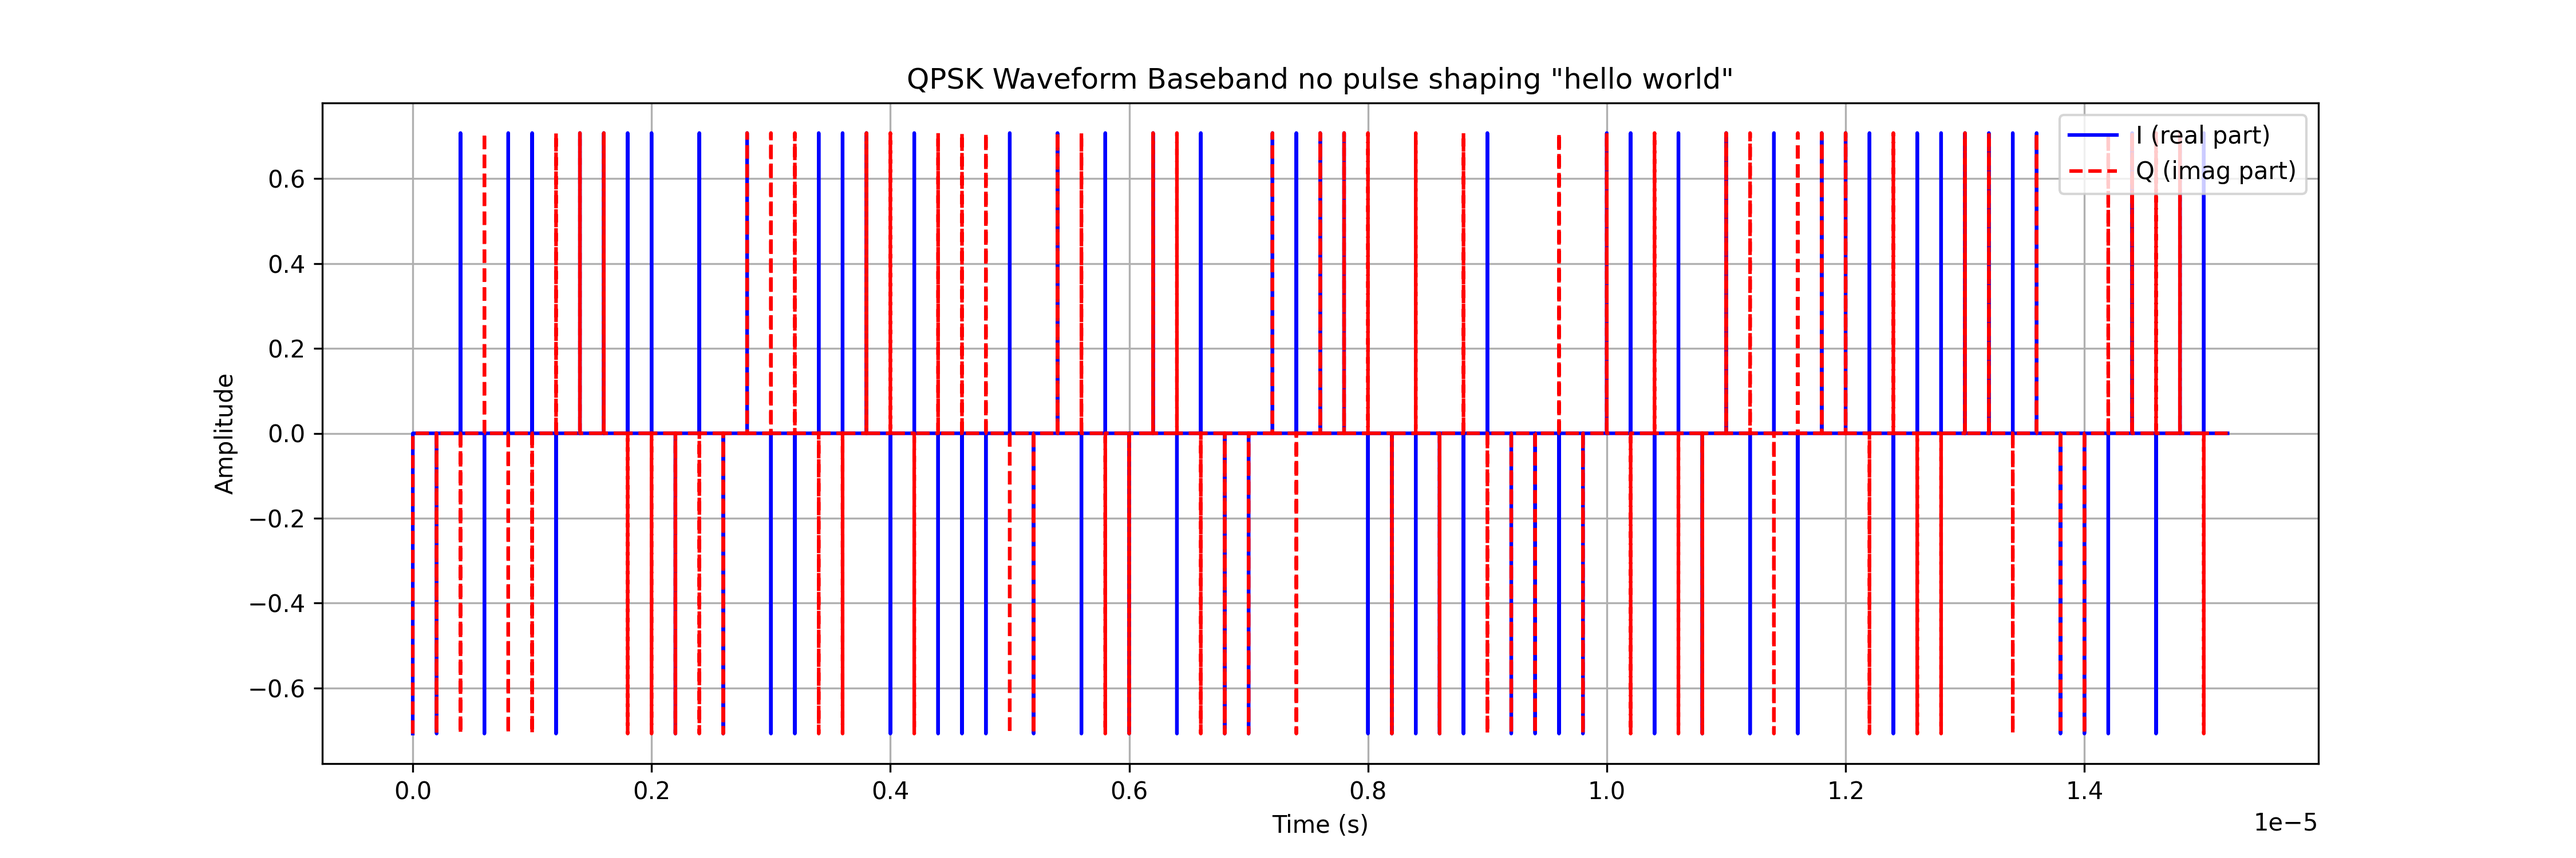
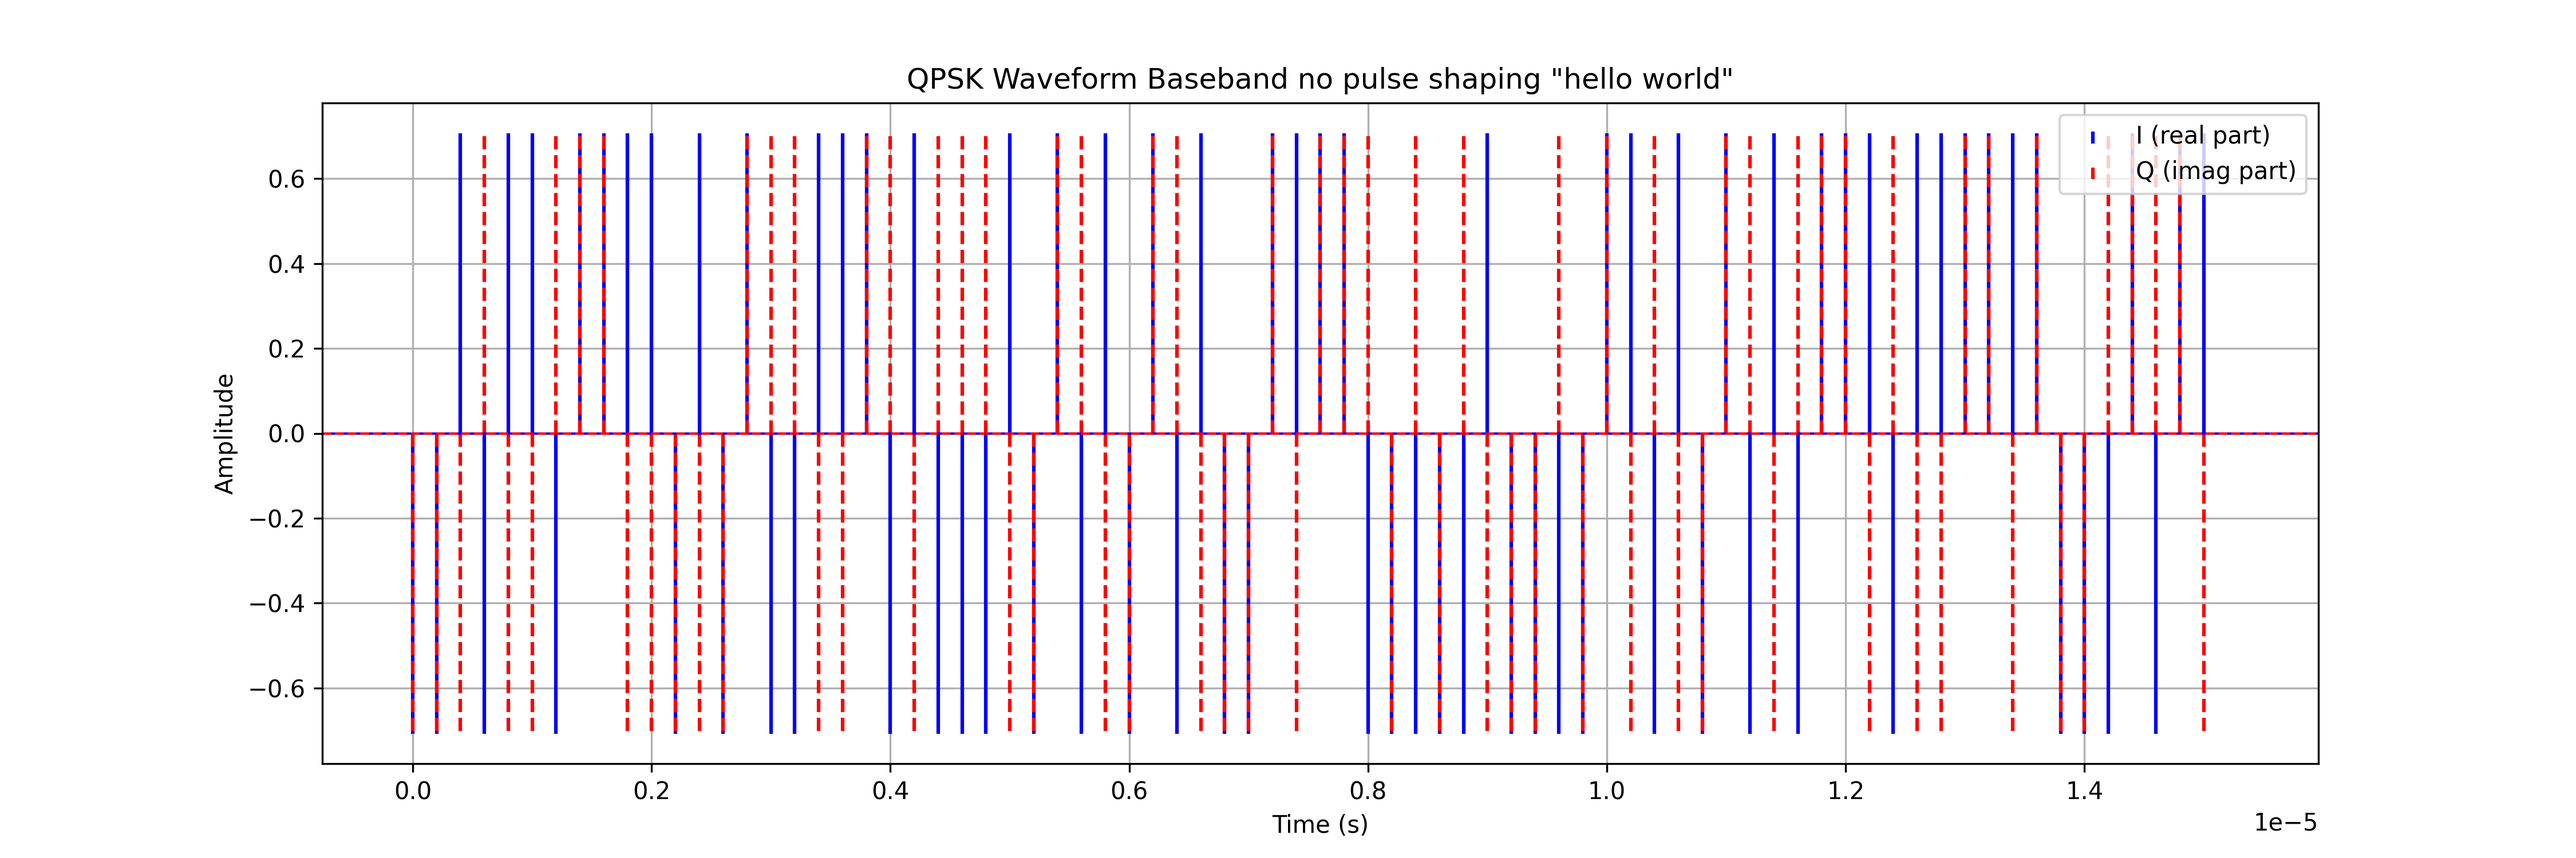
quick push

Changed region(s): [[0.1244, 0.1533, 0.9022, 0.552], [0.8089, 0.1533, 0.84, 0.184], [0.2489, 0.6747, 0.28, 0.7053]]

diff --git a/Phys_Sim/Gui_zmq_controlled.py b/Phys_Sim/Gui_zmq_controlled.py
@@ -110,7 +110,7 @@ def simulate_page():
                     This function is triggered when the user clicks the submit button.
                     It collects the values from the input fields and stores them for further processing.
                     """
-                    
+
                     global message_input
                     global rx_message_binary
                     global decoded_string
@@ -255,7 +255,7 @@ def signal_generator_page():
                     payload += str(bit_sequence[i])
             ui.label('Bit Sequence:').style('font-size: 1.5em; font-weight: bold;')
             ui.html(f'''<div style ="font-size: 1.5em; font-weight: bold; color: #D2042D;"><span style = 'color:#0072BD'>Marker</span> | <span style = 'color:black'>Message</span> | <span style = 'color:#0072BD'>Marker</span></div>''').style('text-align: center;')
-            ui.html(f'''<div style ="font-size: 1.5em; font-weight: bold; color: #D2042D; text-wrap:wrap; word-break: break-all;"><span style = 'color:#0072BD'>{marker_front}</span> | <span style = 'color:black; '>{payload}</span></div> | <span style = 'color:#0072BD'>{marker_back}}</span></div>''').style('text-align: center;')
+            ui.html(f'''<div style ="font-size: 1.5em; font-weight: bold; color: #D2042D; text-wrap:wrap; word-break: break-all;"><span style = 'color:#0072BD'>{marker_front}</span> | <span style = 'color:black; '>{payload}</span> | <span style = 'color:#0072BD'>{marker_back}</span></div>''').style('text-align: center;')
 
             #need to insure we get the most up to date image that's why we use .force_reload()
             ui.image('qpsk_sig_gen/baseband.png').style('width: 70%; height: auto;').force_reload()
@@ -284,14 +284,19 @@ def receiver_page():
     #on this page put plots
 
 
-    marker = ''
+    marker_front = ''
+    marker_back = ''
     payload = ''
+
     for i in range(len(rx_message_binary)):
         #get the first 8 bits as the marker
-        if i < 8:
-            marker += str(rx_message_binary[i])
+        if i < 32:
+            marker_front += str(rx_message_binary[i])
+        elif i > len(rx_message_binary) - 32:
+            marker_back += str(rx_message_binary[i])
         else:
             payload += str(rx_message_binary[i])
+
     with ui.column().style('width: 100%; justify-content: center; align-items: center;'):
         ui.image('demod_media/incoming.png').force_reload()
         ui.image('demod_media/filtered.png').force_reload()
@@ -299,8 +304,9 @@ def receiver_page():
         ui.image('demod_media/Base_Band_Waveform.png').style('width: 70%').force_reload()
         ui.image('demod_media/Base_Band_FFT.png').style('width:70%').force_reload()
         ui.label('Bit Sequence:').style('font-size: 2.5em; font-weight: bold;')
-        ui.html(f'''<div style ="font-size: 2.5em; font-weight: bold; color: #D2042D;"><span style = 'color:#0072BD'>Marker</span> | <span style = 'color:black'>Message</span></div>''').style('text-align: center;')
-        ui.html(f'''<div style ="font-size: 2.5em; font-weight: bold; color: #D2042D; text-wrap:wrap; word-break: break-all;"><span style = 'color:#0072BD'>{marker}</span> | <span style = 'color:black; '>{payload}</span></div>''').style('text-align: center;')
+
+        ui.html(f'''<div style ="font-size: 2.5em; font-weight: bold; color: #D2042D;"><span style = 'color:#0072BD'>Marker</span> | <span style = 'color:black'>Message</span> | <span style = 'color:#0072BD'>Marker</span></div>''').style('text-align: center;')
+        ui.html(f'''<div style ="font-size: 2.5em; font-weight: bold; color: #D2042D; text-wrap:wrap; word-break: break-all;"><span style = 'color:#0072BD'>{marker_front}</span> | <span style = 'color:black; '>{payload}</span> | <span style = 'color:#0072BD'>{marker_back}</span></div>''').style('text-align: center;')
         ui.label(f'Decoded Message: {rx_recovered_message}').style('font-size: 2.5em; font-weight: bold;')
 
     pass

diff --git a/Phys_Sim/Plotter.py b/Phys_Sim/Plotter.py
@@ -82,8 +82,12 @@ def Plotter(sample_rate, t, tx_signal, tx_vert_lines, symbol_rate, tx_symbols, t
 
                     #start plot for upsampled symbols
                     plt.figure(figsize=(15, 5))
-                    plt.plot(t, np.real(tx_upsampled_symbols), color='b', label='I (real part)')
-                    plt.plot(t, np.imag(tx_upsampled_symbols), color='r', linestyle='--', label='Q (imag part)')
+                    plt.stem(t, np.real(tx_upsampled_symbols), linefmt='b-', markerfmt=' ', basefmt=' ', label='I (real part)')
+                    plt.stem(t, np.imag(tx_upsampled_symbols), linefmt='r--', markerfmt=' ', basefmt=' ', label='Q (imag part)')
+                    #create a horizontal line 
+                    plt.axhline(y=0, xmin = 0, xmax = len(t), color='b', linestyle='-', linewidth=1)
+                    plt.axhline(y=0, color='r', linestyle='--', linewidth=1)
+
                     plt.legend()
                     plt.title(f'QPSK Waveform Baseband no pulse shaping \"{message_input}\"')
                     plt.xlabel('Time (s)')
@@ -265,7 +269,7 @@ def Plotter(sample_rate, t, tx_signal, tx_vert_lines, symbol_rate, tx_symbols, t
                     # plt.ylim(-0.5e5,0.5e5)
                     plt.ylabel('Imaginary')
                     plt.tight_layout()
-                    plt.savefig('demod_media/Constellation.png')
+                    plt.savefig('demod_media/Constellation.png', dpi = 300)
 
                      # Plot the waveform and phase
                     plt.figure(figsize=(10, 4))

diff --git a/Phys_Sim/Receiver.py b/Phys_Sim/Receiver.py
@@ -263,8 +263,8 @@ class Receiver:
 
         # Plot the waveform and phase
         plt.figure(figsize=(10, 4))
-        plt.plot(t, analytical_output.real, label='I (real part)')
-        plt.plot(t, analytical_output.imag, label='Q (imag part)')
+        plt.plot(t, np.real(analytical_output), label='I (real part)')
+        plt.plot(t, np.imag(analytical_output), label='Q (imag part)')
         plt.title('Filtered Baseband Time Signal  (Real and Imag Parts)')
         plt.xlabel('Time (s)')
         plt.ylabel('Amplitude')
